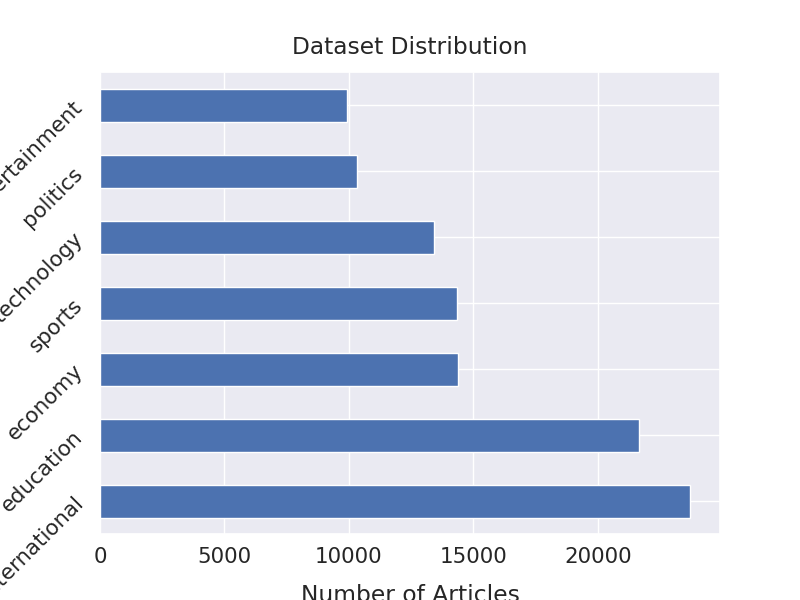
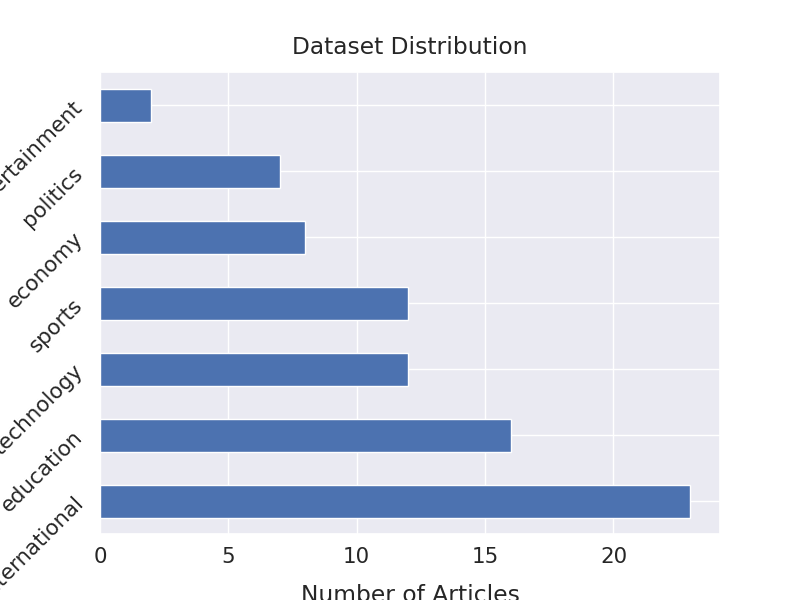
displayed freequency

diff --git a/test.py b/test.py
@@ -1,10 +1,15 @@
-from bert import test_bert_model, run_bert_test
+from exploratory_analysis.eda import EDA
 from preprocessing.preprocessing import PreProcessor
-from settings import MODEL_BERT_MULTILANGUAL_CASED, DIR_RESOURCES
+from scraping.helpers import make_dir_if_not_exists
+from settings import DIR_REPORT, DIR_IMAGES_HISTORY, DIR_PERFORMENCE_REPORT, DIR_IMAGES_EDA
 
-models = {f'incorrect_{MODEL_BERT_MULTILANGUAL_CASED}': [MODEL_BERT_MULTILANGUAL_CASED.replace("/", "_"),
-                                                         MODEL_BERT_MULTILANGUAL_CASED]
-          }
+for dir in [DIR_REPORT, DIR_IMAGES_HISTORY, DIR_PERFORMENCE_REPORT, DIR_IMAGES_EDA]:
+    make_dir_if_not_exists(dir)
+name = 'incorrect_pred_removed'
+# get cleaned train and test data
 preprocessor = PreProcessor()
-df, df_test = preprocessor.read_collected_data_incorrect_pred_removed()
-run_bert_test(MODEL_BERT_MULTILANGUAL_CASED, df_test, is_test=False)
+data, data_test = preprocessor.read_collected_data_incorrect_pred_removed()
+
+# # exploratory data analysis
+eda = EDA(data, name)
+eda.visualize()

diff --git a/exploratory_analysis/visualization.py b/exploratory_analysis/visualization.py
@@ -1,6 +1,7 @@
 import pandas as pd
 import matplotlib
 import matplotlib.pyplot as plt
+import matplotlib.font_manager as fm
 import seaborn as sns
 import numpy as np
 
@@ -75,8 +76,19 @@ class DataVisualizer():
             print("Number of Words:{}".format(len(word_list)))
             print("Number of Unique Words:{}".format(len(np.unique(word_list))))
             print("Most Frequent Words:\n")
+
             for k, v in ordered[:10]:
                 print("{}\t{}".format(k, v))
+
+            prop = fm.FontProperties(fname='kalpurush.ttf')
+
+            top_10 = pd.DataFrame.from_dict(ordered[:10])
+            sns.barplot(data=top_10, x=0, y=1)
+            plt.xlabel('Frequency')
+            plt.title('Class-wise most frequency words')
+            file_path = DIR_IMAGES_EDA + f'/top_10_words_{label}.png'
+            plt.savefig(file_path)
+            plt.close()
 
         data_matrix = pd.DataFrame({'Total Documents': documents,
                                     'Total Words': words,

diff --git a/preprocessing/preprocessing.py b/preprocessing/preprocessing.py
@@ -301,7 +301,7 @@ class PreProcessor():
         dataset_dir = f'{BASE_DIR}/DATASET/'
         file = f'{dataset_dir}collected_removed_urls_incorrect.csv'
         dataset = pd.read_csv(file)
-        # dataset = dataset.sample(1000)
+        dataset = dataset.sample(100)
 
         dataset = dataset.reset_index()
         if is_split:
